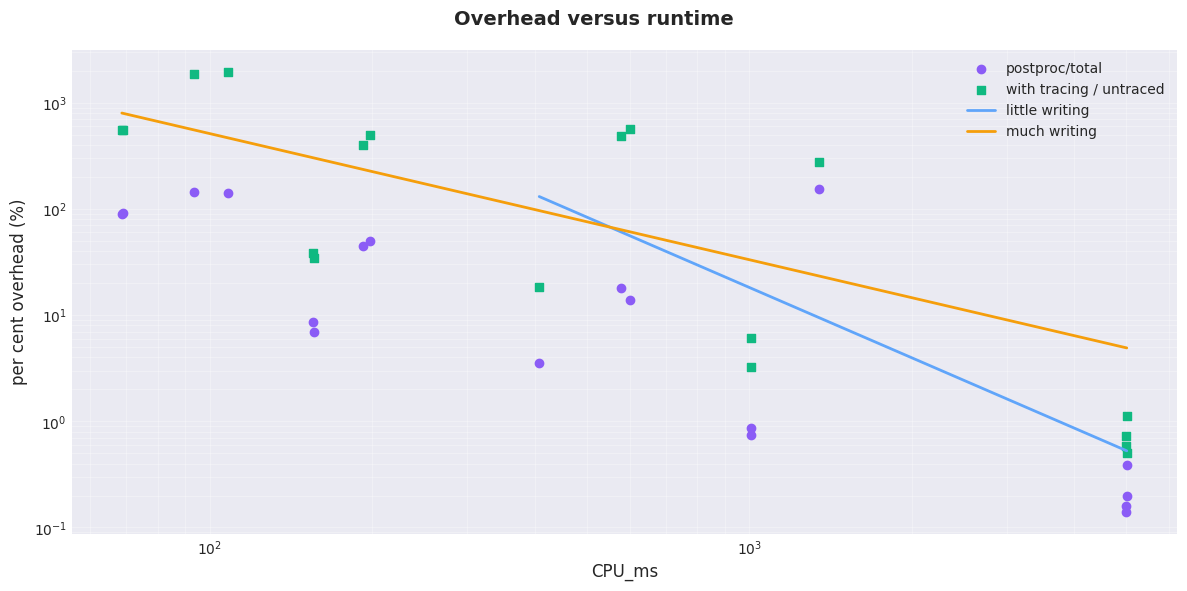
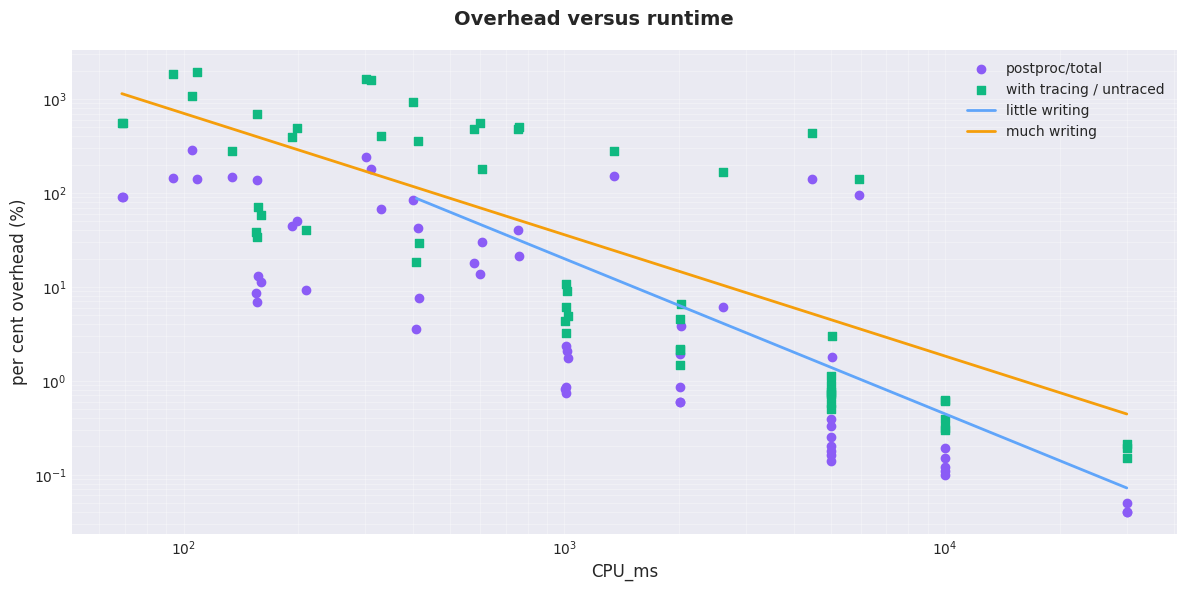
Added more plans in the benchmark json, more Cpu Runtime for plotting. new plots.

diff --git a/tools/polytrace/test/benchmarks/plot_benchmarks.py b/tools/polytrace/test/benchmarks/plot_benchmarks.py
@@ -7,7 +7,7 @@ It generates log-log scatter plots of overhead (%) versus untraced runtime (ms)
 and overlays 1/x reference lines and category trend lines.
 
 Inputs:
-- tools/runtime_overhead.csv with rows:
+- tools/polytrace/test/benchmarks/runtime_overhead.csv with rows:
         runtime_ms,postproc_pct,tracing_pct,writing_level
     where writing_level is a categorical indicator like 'little' or 'much'.
 
@@ -69,7 +69,7 @@ def _plot_reference_inv_x(ax, x: np.ndarray, anchor_y: float, label: str, color:
     k = anchor_y * xm
     x_line = np.linspace(x.min(), x.max(), 200)
     y_line = k / x_line
-    ax.plot(x_line, y_line, color=color, linestyle='--', linewidth=linewidth, label=label)
+    ax.plot(x_line, y_line, color='black', linestyle='--', linewidth=linewidth, label=label)
 
 
 def _read_runtime_csv(csv_path: Path):
@@ -113,6 +113,7 @@ def create_scaling_plots_from_csv(output_dir: Path):
     Requires tools/runtime_overhead.csv. Produces two PNGs.
     """
     script_dir = Path(__file__).parent
+    project_root = script_dir.parent.parent.parent.parent
     csv_path = script_dir / 'runtime_overhead.csv'
     if not csv_path.exists():
         print(f"\nℹ runtime_overhead.csv not found at {csv_path}. Add data to enable scaling plots.")
@@ -146,7 +147,7 @@ def create_scaling_plots_from_csv(output_dir: Path):
 
     ax.set_xscale('log')
     ax.set_yscale('log')
-    ax.set_xlabel('untraced runtime (ms)')
+    ax.set_xlabel('CPU_ms')
     ax.set_ylabel('overhead (%)')
     ax.grid(True, which='both', axis='both', alpha=0.3)
     ax.legend(loc='upper right', framealpha=0.9)
@@ -191,7 +192,7 @@ def create_scaling_plots_from_csv(output_dir: Path):
 
     ax.set_xscale('log')
     ax.set_yscale('log')
-    ax.set_xlabel('untraced runtime (ms)')
+    ax.set_xlabel('CPU_ms')
     ax.set_ylabel('overhead (%)')
     ax.grid(True, which='both', axis='both', alpha=0.3)
     ax.legend(loc='upper right', framealpha=0.9)
@@ -211,11 +212,11 @@ def main():
     """Generate scaling plots only (discard legacy bar charts)."""
     # Determine output directory (public/benchmarks/)
     script_dir = Path(__file__).parent
-    project_root = script_dir.parent
+    project_root = script_dir.parent.parent.parent.parent
     output_dir = project_root / 'public' / 'benchmarks'
     output_dir.mkdir(parents=True, exist_ok=True)
 
-    print(f"\n📊 Generating scaling plots (overhead vs wall-time)...")
+    print(f"\n Generating scaling plots (overhead vs wall-time)...")
     print(f"Output directory: {output_dir}\n")
 
     total_created = 0
@@ -233,10 +234,10 @@ def main():
         print(f"\nℹ Skipped legacy runtime-overhead scatter: {e}")
 
     if total_created == 0:
-        print("\n⚠ No plots were generated. Ensure tools/runtime_overhead.csv has data.")
+        print("\n No plots were generated. Ensure tools/runtime_overhead.csv has data.")
     else:
-        print(f"\n✨ Done! Generated {total_created} plot(s)")
-        print(f"\n💡 Plots are optimized for web display (1200x600px @ 100dpi)")
+        print(f"\n Done! Generated {total_created} plot(s)")
+        print(f"\n Plots are optimized for web display (1200x600px @ 100dpi)")
 
 
 def create_runtime_overhead_scatter(output_dir: Path):
@@ -255,7 +256,8 @@ def create_runtime_overhead_scatter(output_dir: Path):
     """
 
     script_dir = Path(__file__).parent
-    csv_path = script_dir / 'runtime_overhead.csv'
+    project_root = script_dir.parent.parent.parent.parent
+    csv_path = project_root / 'tools' / 'runtime_overhead.csv'
     if not csv_path.exists():
         print(f"\nℹ runtime_overhead.csv not found at {csv_path}. Create it to enable the PoC-style plot.")
         return 0
@@ -316,7 +318,7 @@ def create_runtime_overhead_scatter(output_dir: Path):
     output_path = output_dir / 'benchmark_runtime_overhead.png'
     plt.savefig(output_path, dpi=100, bbox_inches='tight', facecolor='white', edgecolor='none',
                 format='png', pil_kwargs={'optimize': True})
-    print(f"✓ Created: {output_path}")
+    print(f"Created: {output_path}")
     plt.close()
     return 1
 

diff --git a/tools/polytrace/test/benchmarks/extract_runtime_overhead.py b/tools/polytrace/test/benchmarks/extract_runtime_overhead.py
@@ -3,7 +3,7 @@
 Extract runtime overhead data from benchmark results for scaling analysis.
 
 Reads tools/polytrace/test/benchmarks/results.csv and generates:
-1. tools/runtime_overhead.csv - formatted for plot_benchmarks.py
+1. tools/polytrace/test/benchmarks/runtime_overhead.csv - formatted for plot_benchmarks.py
 2. Console output with analysis of 1/x scaling behavior
 """
 
@@ -47,14 +47,14 @@ def main():
     script_dir = Path(__file__).parent
     
     # Input: benchmark results
-    results_csv = script_dir / 'polytrace' / 'test' / 'benchmarks' / 'results.csv'
+    results_csv = script_dir / 'results.csv'
     
     if not results_csv.exists():
-        print(f"❌ Results file not found: {results_csv}")
+        print(f"Results file not found: {results_csv}")
         print("   Run benchmarks first: cd tools/polytrace/test/benchmarks && ./run_bench.sh")
         return 1
     
-    # Output: runtime overhead CSV
+    # Output: runtime overhead CSV (kept alongside results for clarity)
     output_csv = script_dir / 'runtime_overhead.csv'
     
     # Parse results
@@ -89,14 +89,14 @@ def main():
                     'io_level': io_level
                 })
             except (ValueError, KeyError) as e:
-                print(f"⚠  Skipping invalid row: {row} ({e})")
+                print(f"Skipping invalid row: {row} ({e})")
                 continue
     
     if not runs:
-        print("❌ No valid runs found in results.csv")
+        print("No valid runs found in results.csv")
         return 1
     
-    print(f"\n📊 Extracted {len(runs)} benchmark runs")
+    print(f"\n Extracted {len(runs)} benchmark runs")
     
     by_io_level = defaultdict(list)
     for run in runs:
@@ -115,7 +115,7 @@ def main():
                 run['benchmark_id']
             ])
     
-    print(f"✅ Created: {output_csv}")
+    print(f"Created: {output_csv}")
     
     print("\n" + "="*60)
     print("SCALING ANALYSIS: Overhead vs Runtime")
@@ -136,7 +136,7 @@ def main():
         print("\nPost-processing overhead:")
         for run in level_runs:
             product = run['runtime_ms'] * run['postproc_pct']
-            print(f"  Runtime: {run['runtime_ms']:>8.0f}ms | Overhead: {run['postproc_pct']:>6.2f}% | Product: {product:>10.0f}")
+            print(f"Runtime: {run['runtime_ms']:>8.0f}ms | Overhead: {run['postproc_pct']:>6.2f}% | Product: {product:>10.0f}")
         
         if len(postproc_products) >= 2:
             mean_product = statistics.mean(postproc_products)
@@ -147,7 +147,7 @@ def main():
         print("\nTracing overhead:")
         for run in level_runs:
             product = run['runtime_ms'] * run['tracing_pct']
-            print(f"  Runtime: {run['runtime_ms']:>8.0f}ms | Overhead: {run['tracing_pct']:>6.2f}% | Product: {product:>10.0f}")
+            print(f"Runtime: {run['runtime_ms']:>8.0f}ms | Overhead: {run['tracing_pct']:>6.2f}% | Product: {product:>10.0f}")
         
         if len(tracing_products) >= 2:
             mean_product = statistics.mean(tracing_products)

diff --git a/tools/polytrace/test/benchmarks/README_benchmarks.md b/tools/polytrace/test/benchmarks/README_benchmarks.md
@@ -18,7 +18,7 @@ python3 -m pip install matplotlib numpy
 
 ## File Paths
 - Input (Benchmark results): tools/polytrace/test/benchmarks/results.csv
-- Derived input for plots: tools/runtime_overhead.csv
+- Derived input for plots: tools/polytrace/test/benchmarks/runtime_overhead.csv
 - Output (Plots for web): public/benchmarks/*.png
 
 ## CSV Formats
@@ -32,19 +32,26 @@ python3 -m pip install matplotlib numpy
     - `tracing_pct`: ((wall_ms_traced - wall_ms_untraced) / wall_ms_untraced) * 100
     - `writing_level`: heuristic for I/O intensity: "little" or "much"
 
-## Steps: Extraction and Plotting
-1) Extract CSV from benchmark results:
+## Steps: Run, Extract, Plot
+1) Run benchmarks (creates results.csv):
 
 ```bash
-python3 tools/extract_runtime_overhead.py
+cd tools/polytrace/test/benchmarks
+./run_bench.sh
 ```
 
-Result: tools/runtime_overhead.csv is generated and a brief 1/x analysis (product check) is printed to the console.
-
-2) Generate plots:
+2) Extract compact CSV and scaling check:
 
 ```bash
-python3 tools/plot_benchmarks.py
+python3 tools/polytrace/test/benchmarks/extract_runtime_overhead.py
+```
+
+Result: tools/polytrace/test/benchmarks/runtime_overhead.csv is generated and a brief 1/x analysis (product check) is printed to the console.
+
+3) Generate plots:
+
+```bash
+python3 tools/polytrace/test/benchmarks/plot_benchmarks.py
 ```
 
 Result (in public/benchmarks/):
